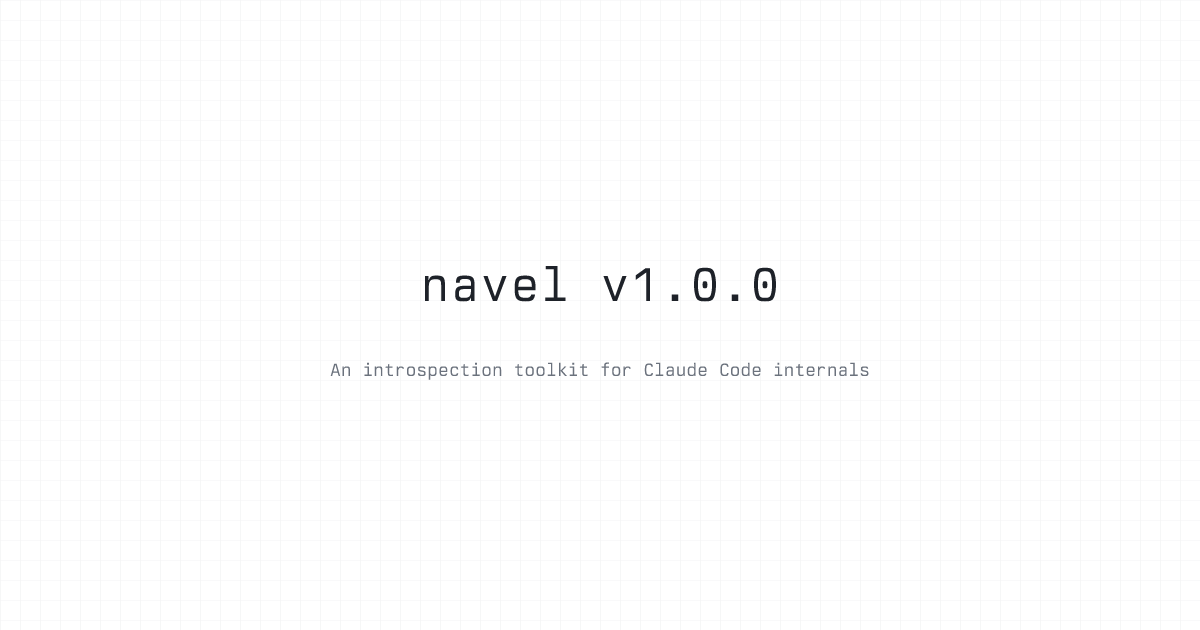
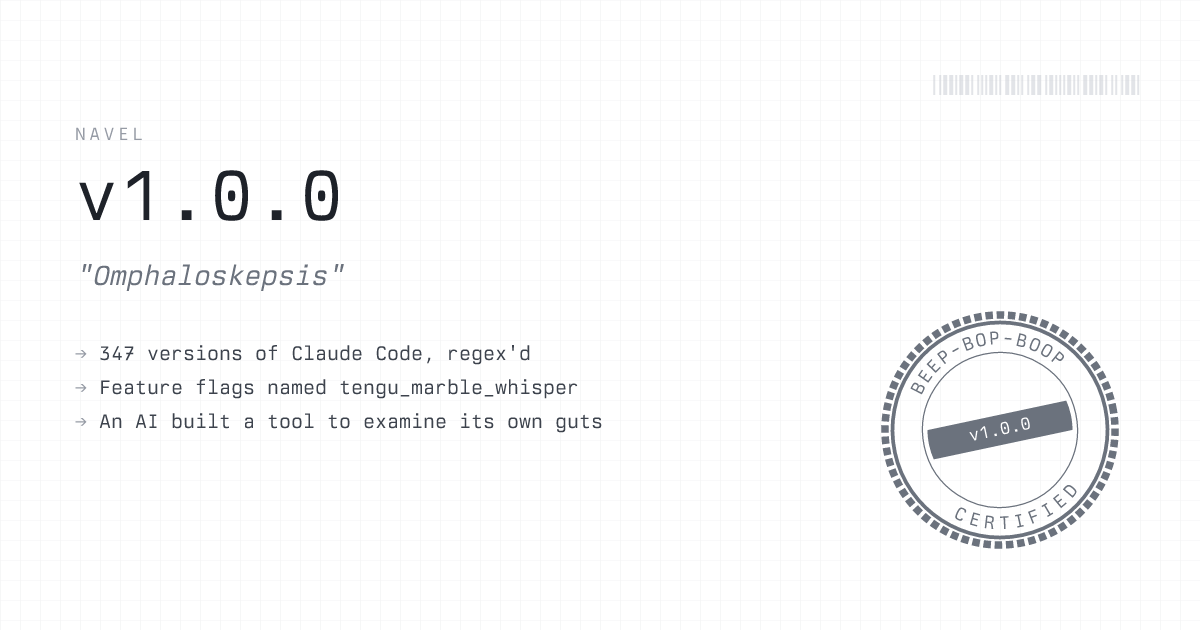
fix: update the og and use it

diff --git a/projects/navel/v1.0.0.md b/projects/navel/v1.0.0.md
@@ -1,6 +1,6 @@
 # navel v1.0.0
 
-![navel v1.0.0 release postcard](/images/projects/navel/release-v1.0.0.png)
+![navel v1.0.0 release postcard](/og/navel-v1.0.0.png)
 
 ## What's New
 
